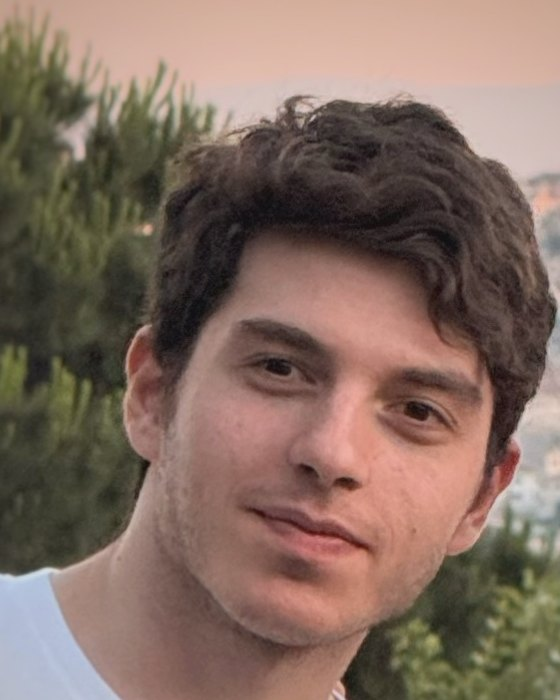
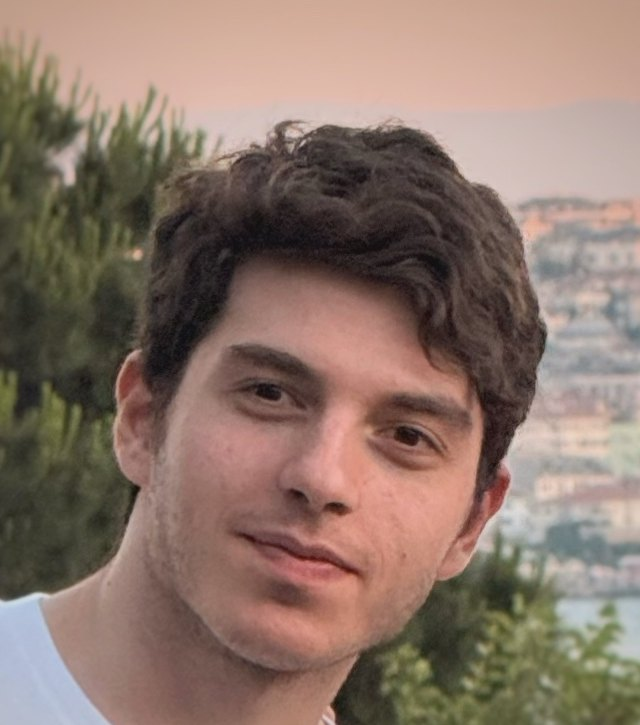
Show the full portrait without cropping the face
Claude-Session: https://claude.ai/code/session_011y89wD9r4eKniSEiLxCGYq

diff --git a/assets/css/site.css b/assets/css/site.css
@@ -94,7 +94,7 @@ a:hover { text-decoration: underline; text-underline-offset: 3px; }
 /* hero */
 .hero {
   display: grid;
-  grid-template-columns: minmax(0, 1fr) clamp(220px, 26vw, 300px);
+  grid-template-columns: minmax(0, 1fr) clamp(240px, 28vw, 320px);
   gap: 2rem 4rem;
   align-items: center;
   padding-block: clamp(3.5rem, 8vw, 6.5rem) clamp(2.5rem, 5vw, 3.5rem);
@@ -105,14 +105,12 @@ a:hover { text-decoration: underline; text-underline-offset: 3px; }
   grid-row: 1;
   width: 100%;
   height: auto;
-  aspect-ratio: 4 / 5;
-  object-fit: cover;
   border-radius: 6px;
   background: var(--soft);
 }
 @media (max-width: 760px) {
   .hero { grid-template-columns: 1fr; gap: 1.75rem; }
-  .hero__photo { grid-column: 1; width: 132px; border-radius: 50%; aspect-ratio: 1; object-position: 50% 30%; }
+  .hero__photo { grid-column: 1; width: 168px; }
 }
 .hero__role { color: var(--navy); font-weight: 500; font-size: var(--t-md); }
 .hero__name {

diff --git a/index.html b/index.html
@@ -30,7 +30,7 @@
 <main id="top">
 
   <section class="hero wrap">
-    <img class="hero__photo" src="assets/img/portrait.jpg" width="560" height="700" alt="Ahmed Arslan">
+    <img class="hero__photo" src="assets/img/portrait.jpg" width="640" height="725" alt="Ahmed Arslan">
     <div class="hero__text">
     <p class="hero__role" data-i18n="hero.role">After-Sales Service Engineer</p>
     <h1 class="hero__name">Ahmed Arslan</h1>
